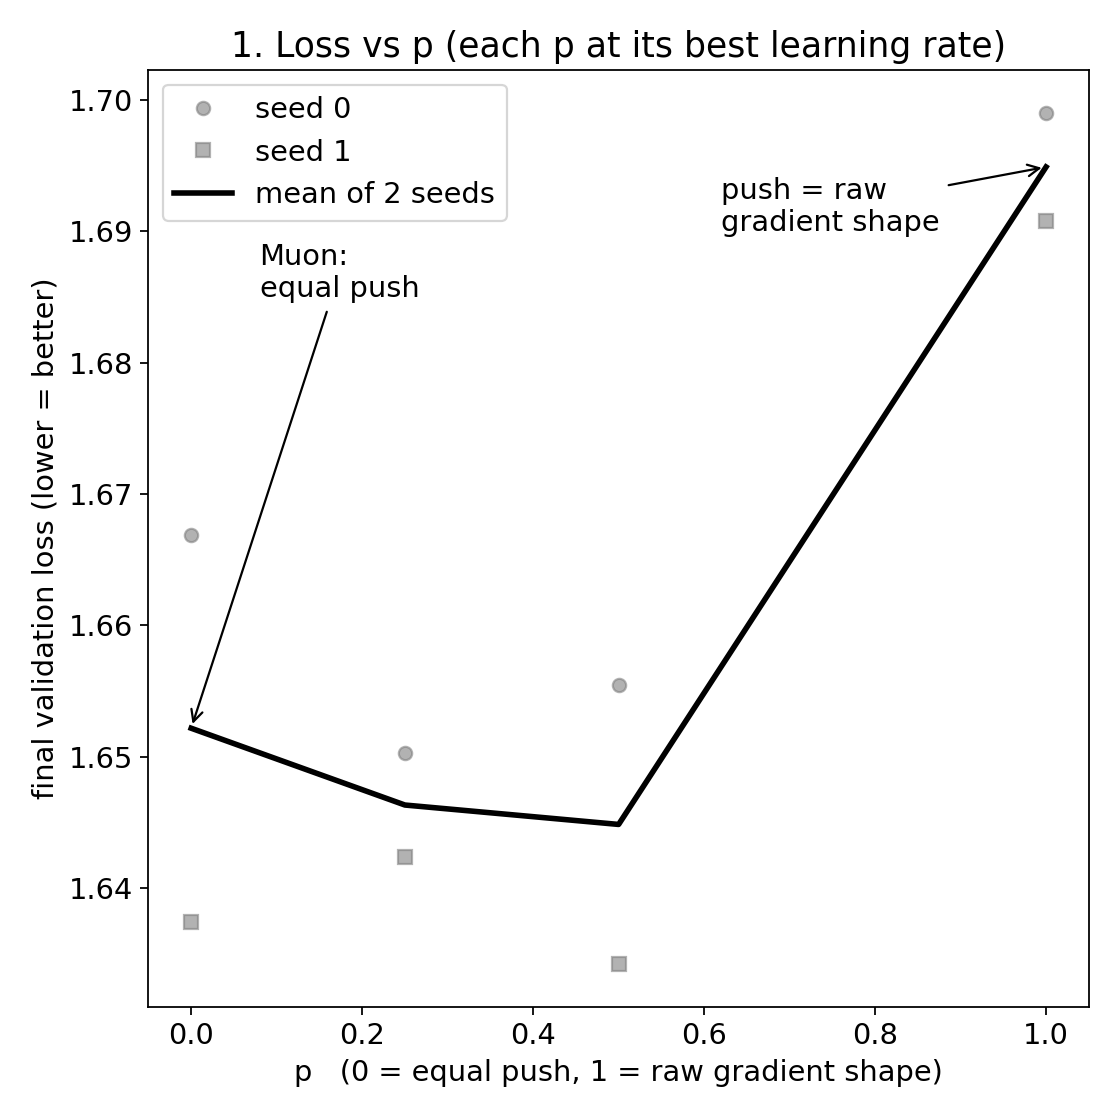
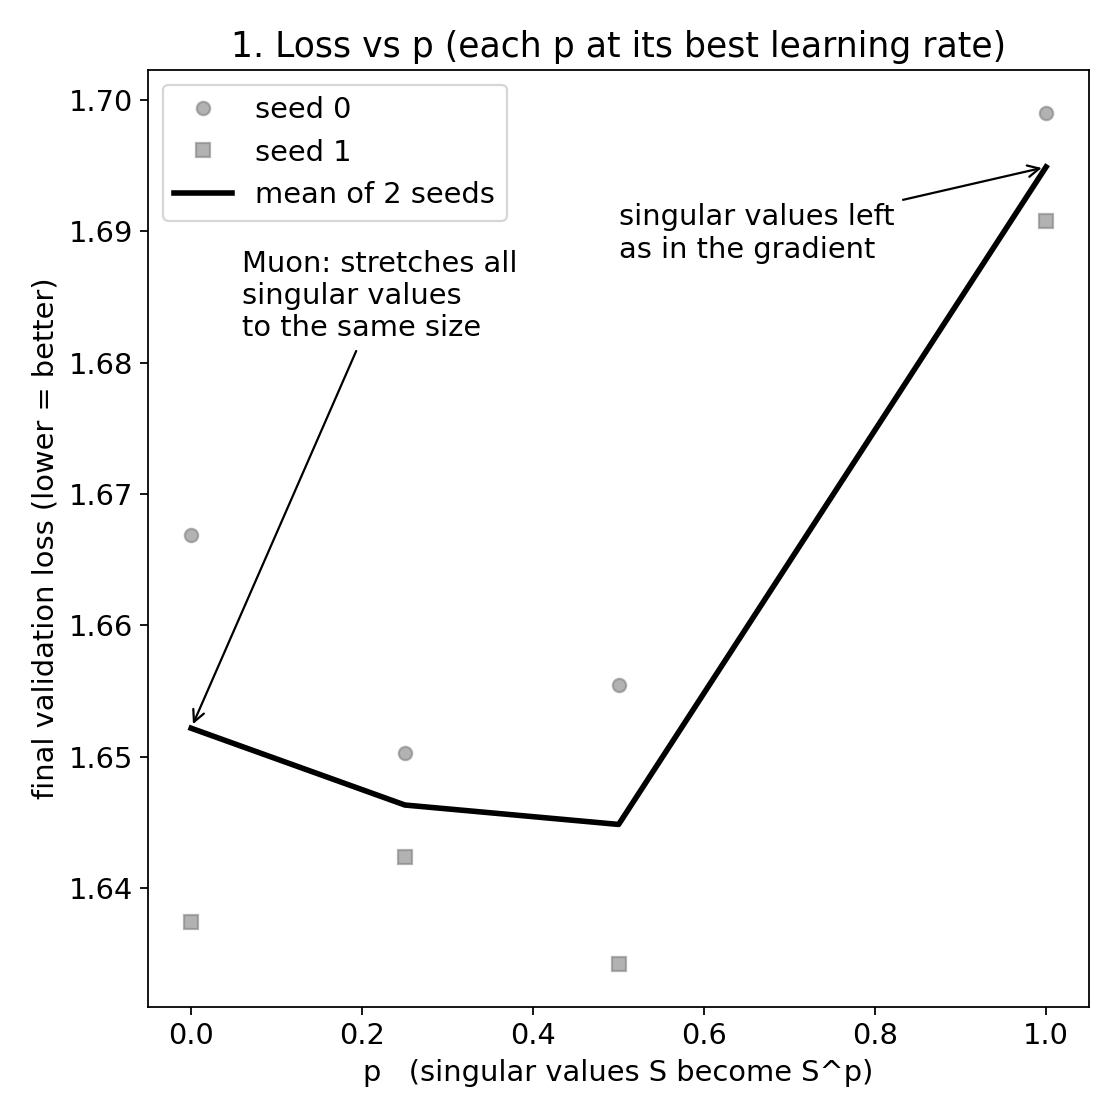
Chart 1: label Muon as stretching all singular values to the same size

diff --git a/experiments/explore_exp2.py b/experiments/explore_exp2.py
@@ -44,9 +44,9 @@ def panel1(a):
         a.plot(P, [R[key(p, BEST[p], s)]["val"] for p in P], mk, color="gray", alpha=.6, label=f"seed {s}")
     mean = [np.mean([R[key(p, BEST[p], s)]["val"] for s in (0, 1)]) for p in P]
     a.plot(P, mean, "k-", lw=2.5, label="mean of 2 seeds")
-    a.annotate("Muon:\nequal push", (0, mean[0]), (0.08, 1.685), arrowprops=dict(arrowstyle="->"))
-    a.annotate("push = raw\ngradient shape", (1, mean[3]), (0.62, 1.69), arrowprops=dict(arrowstyle="->"))
-    a.set(xlabel="p   (0 = equal push, 1 = raw gradient shape)", ylabel="final validation loss (lower = better)",
+    a.annotate("Muon: stretches all\nsingular values\nto the same size", (0, mean[0]), (0.06, 1.682), arrowprops=dict(arrowstyle="->"))
+    a.annotate("singular values left\nas in the gradient", (1, mean[3]), (0.5, 1.688), arrowprops=dict(arrowstyle="->"))
+    a.set(xlabel="p   (singular values S become S^p)", ylabel="final validation loss (lower = better)",
           title="1. Loss vs p (each p at its best learning rate)")
     a.legend()
 
